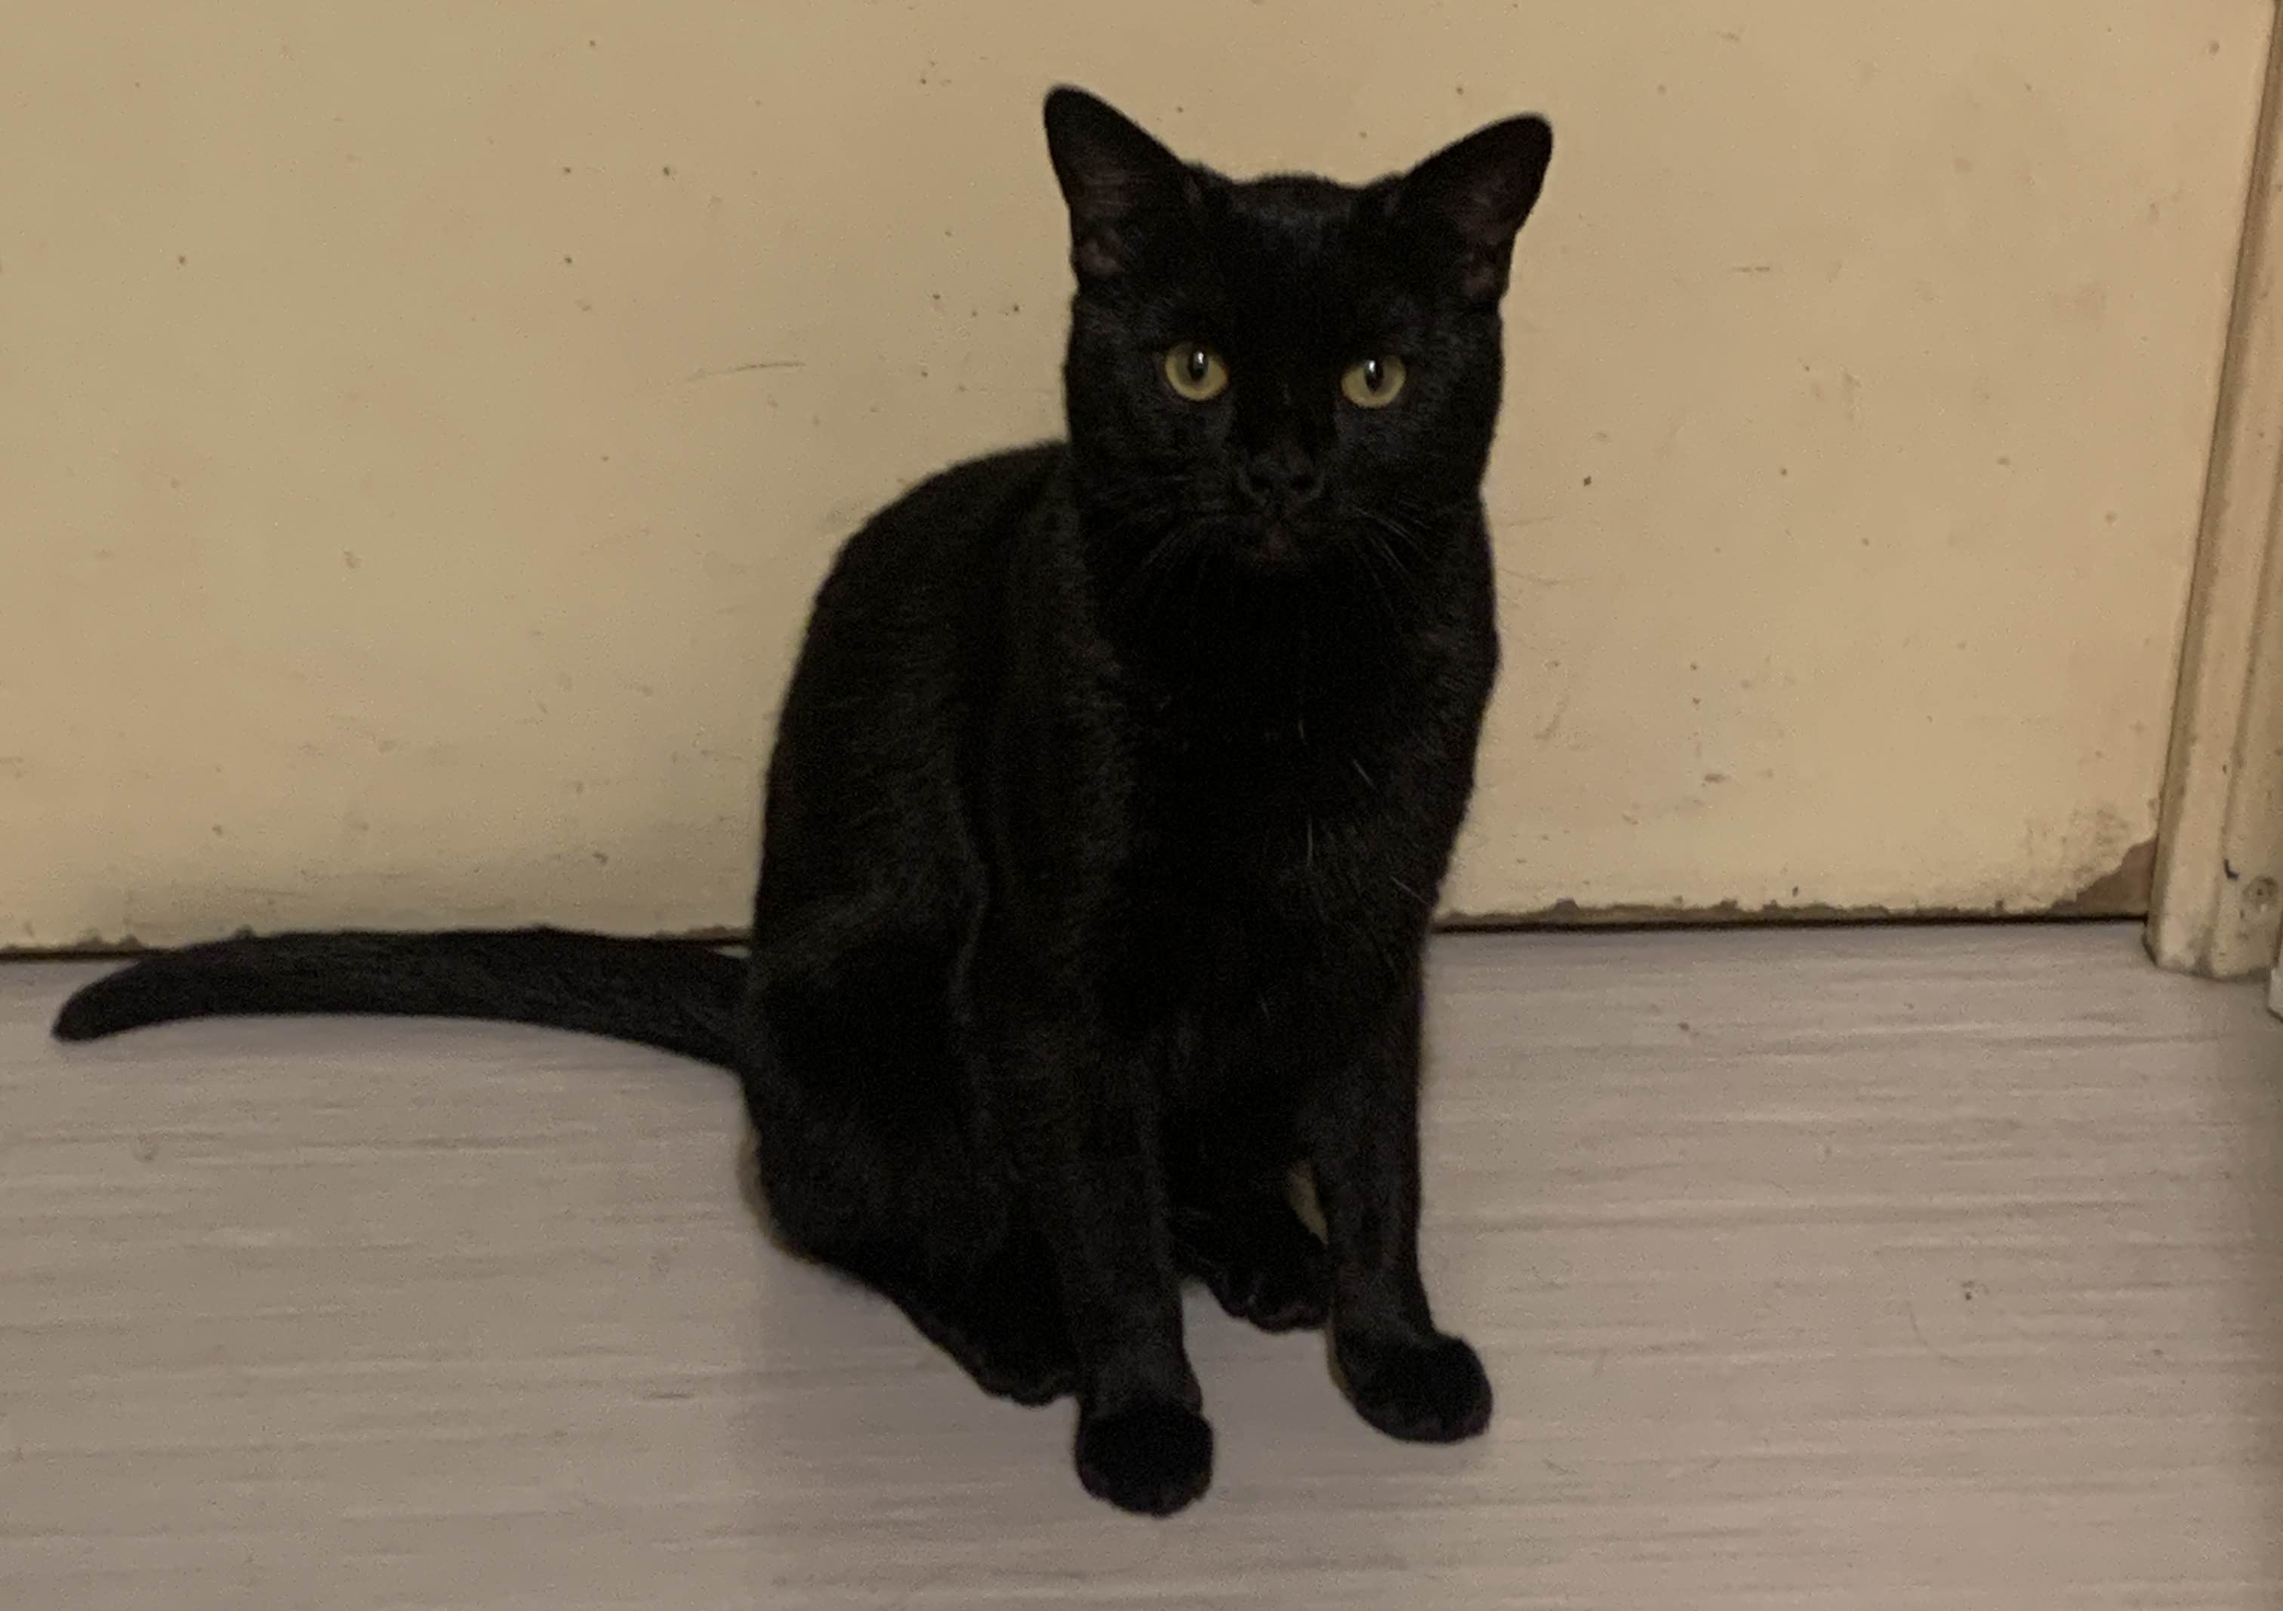
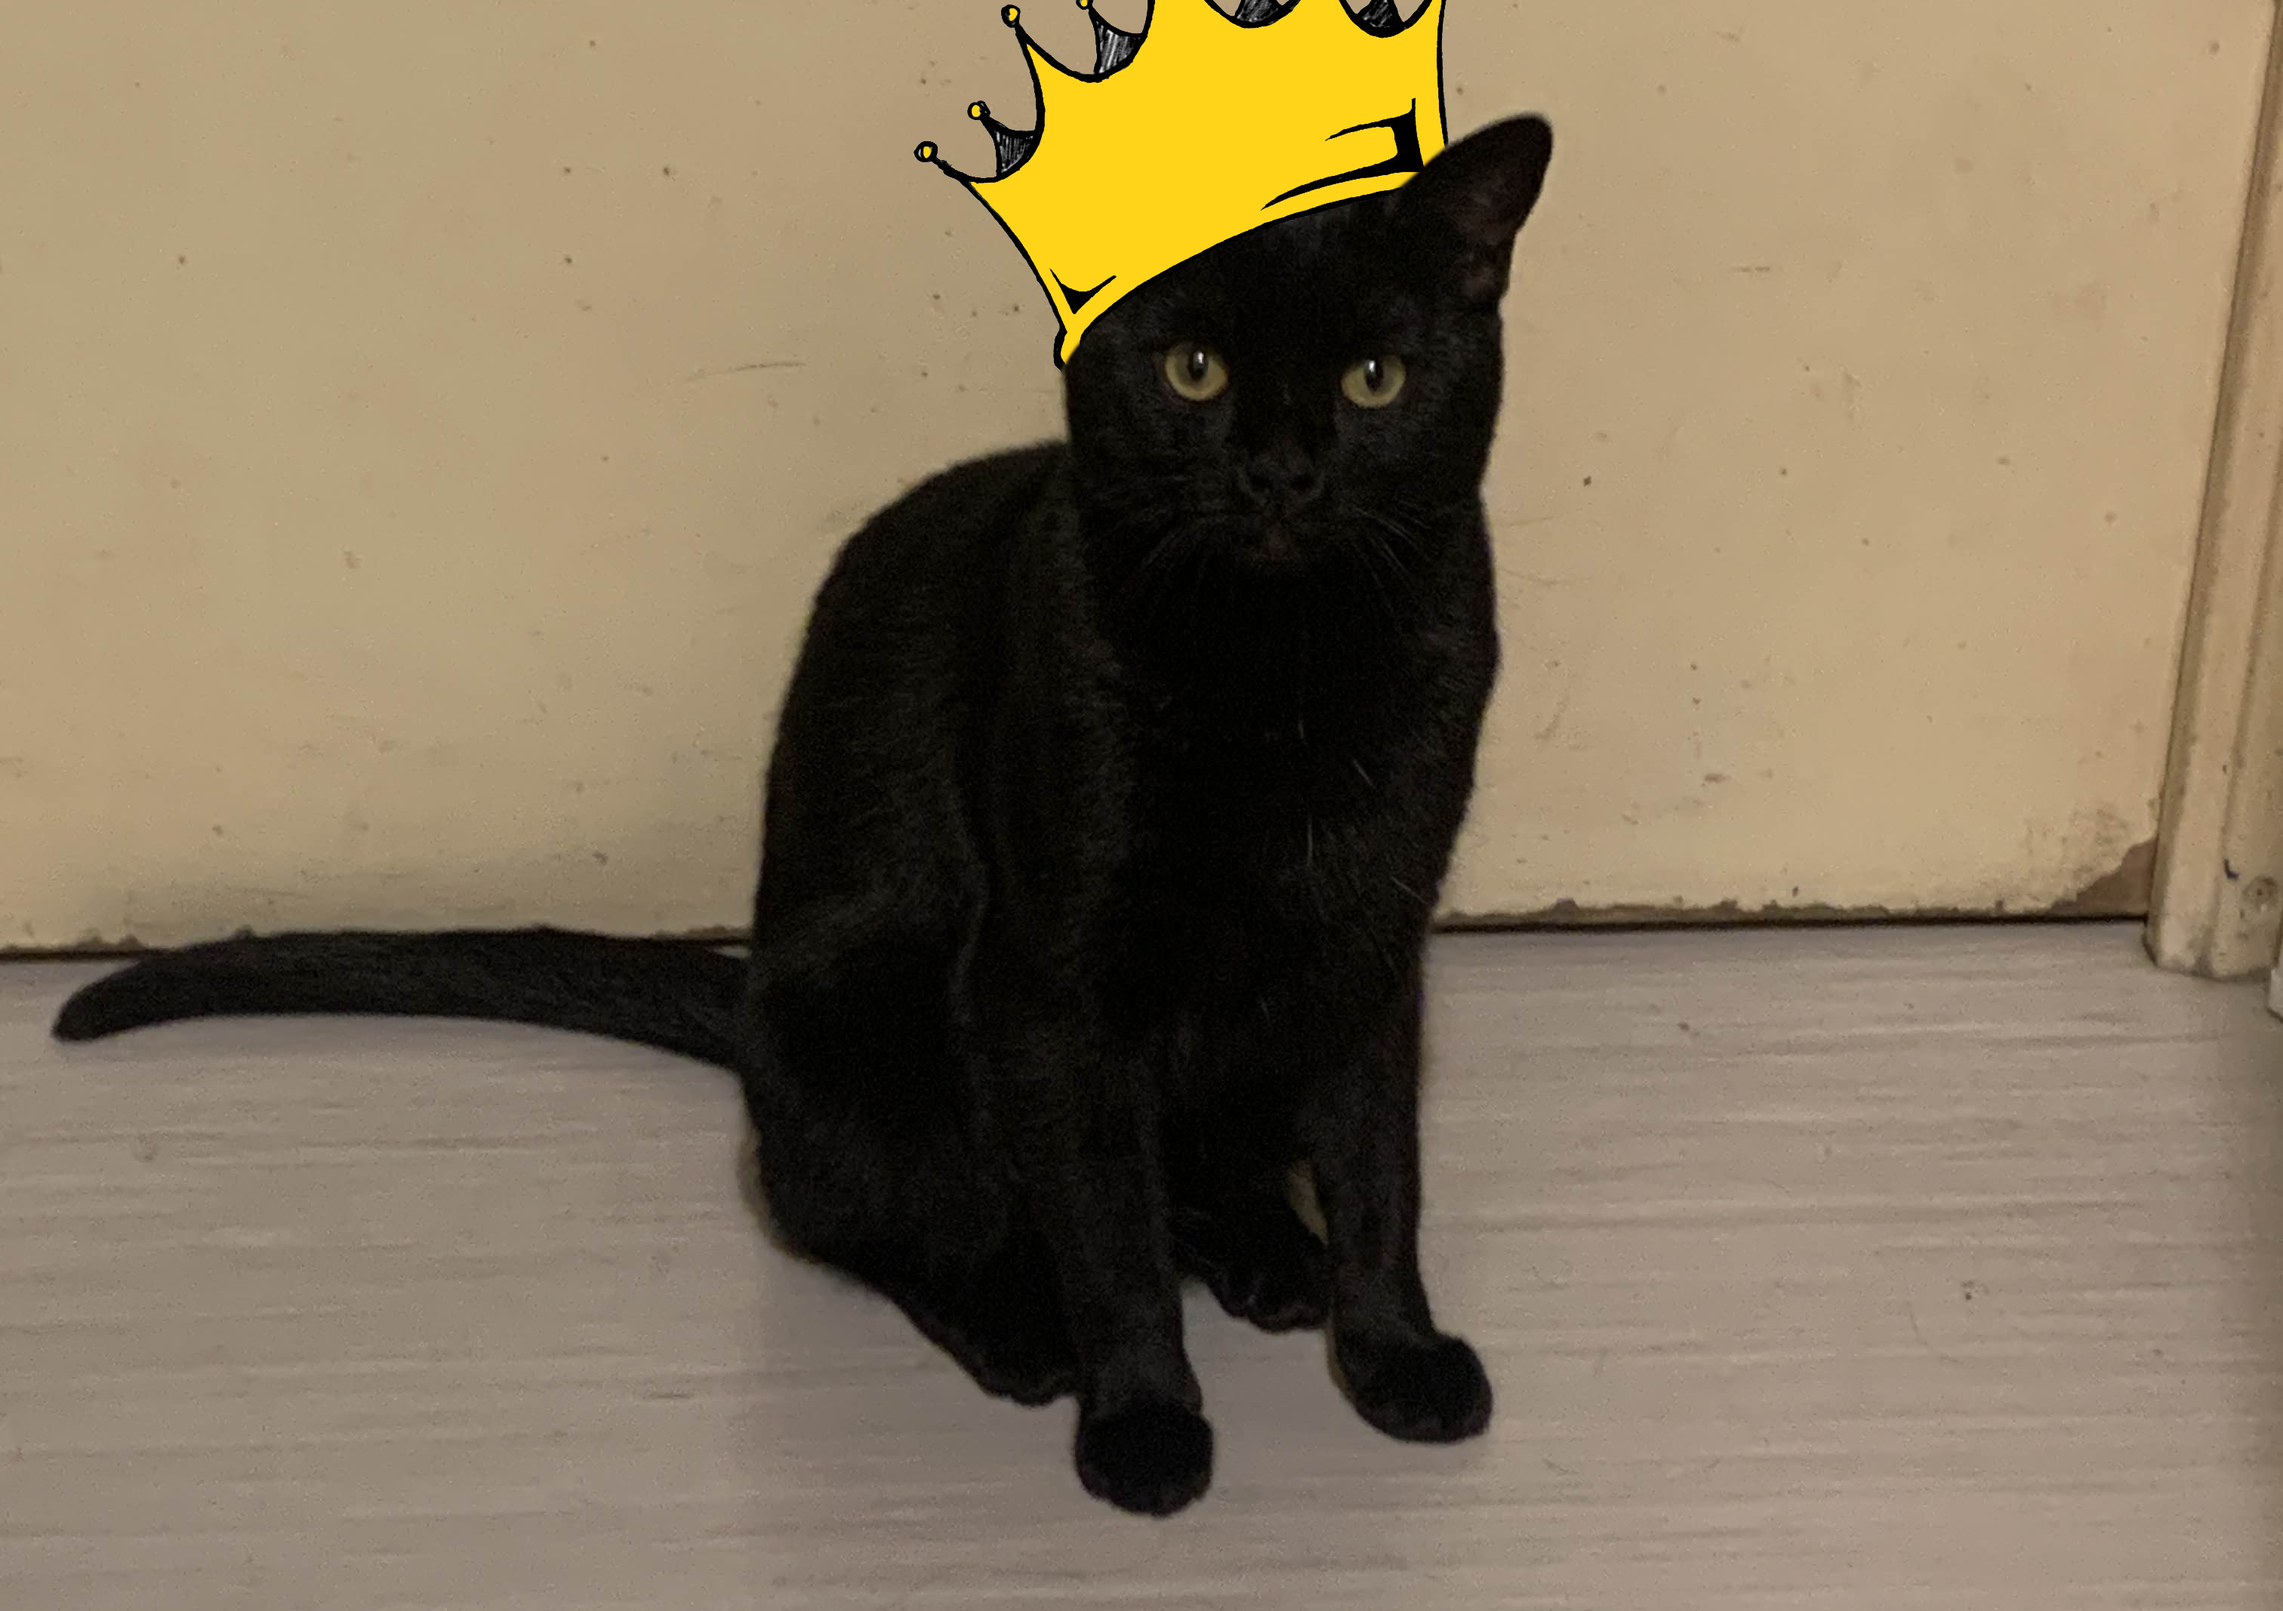
crown+cache

Changed region(s): [[0.4041, 0.0, 0.6528, 0.2165]]

diff --git a/html/krokmou.html b/html/krokmou.html
@@ -13,7 +13,7 @@
     <h1 class="title">For my little buddy <span class="krokmou-name">Krokmou</span></h1>
     
     <div class="krokmou-image">
-        <img src="assets/img/krok.png" alt="Krokmou" />
+        <img src="assets/img/krok.png?v=1" alt="Krokmou" />
     </div>
     
     <div class="counter-section">
